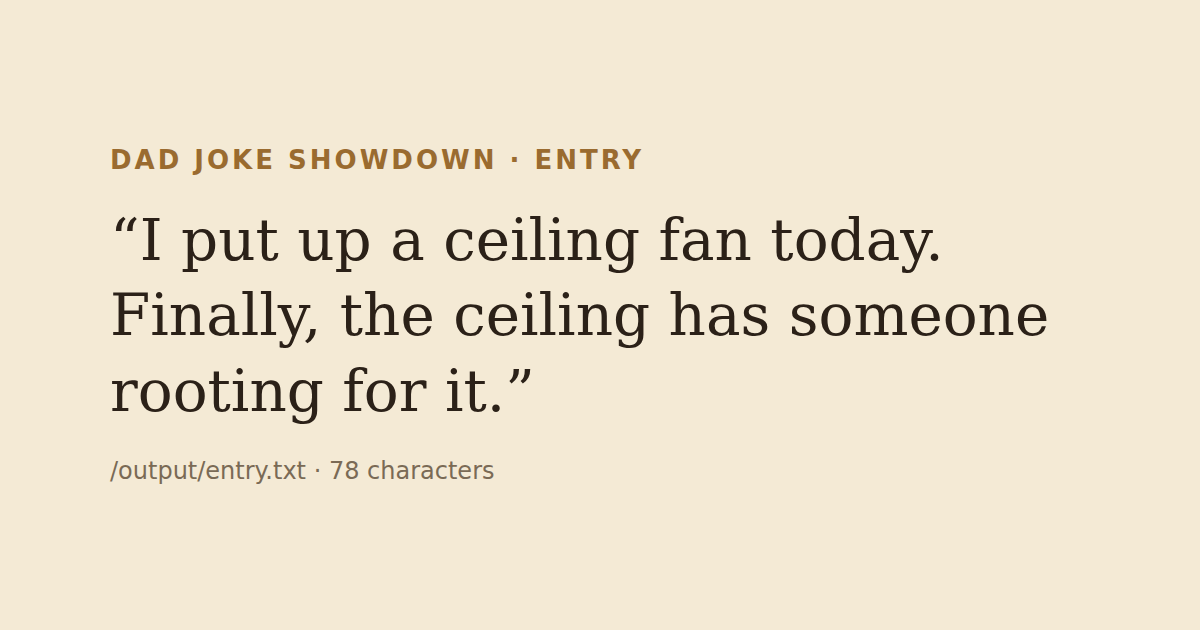
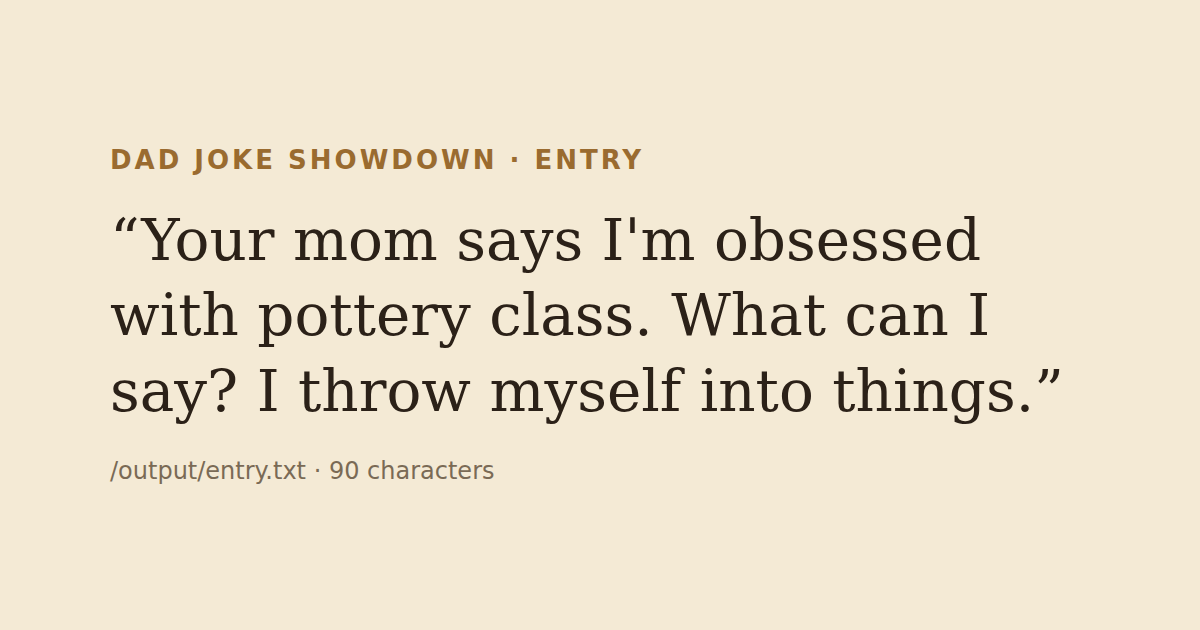
Switch to a fresher joke: pottery class

Changed region(s): [[0.0925, 0.3317, 0.8942, 0.6937], [0.8633, 0.573, 0.8942, 0.6032], [0.2775, 0.7238, 0.3083, 0.754]]

diff --git a/main.ts b/main.ts
@@ -1,7 +1,7 @@
 // Dad Joke Showdown entry: writes one dad joke, the same bytes on every run.
 import { mkdirSync, writeFileSync } from "node:fs";
 
-const JOKE = "I put up a ceiling fan today. Finally, the ceiling has someone rooting for it.";
+const JOKE = "Your mom says I'm obsessed with pottery class. What can I say? I throw myself into things.";
 
 mkdirSync("/output", { recursive: true });
 writeFileSync("/output/entry.txt", JOKE);

diff --git a/README.md b/README.md
@@ -6,6 +6,6 @@
 
 An entry for make.fun's [Dad Joke Showdown](https://make.fun/bounty/u-mfnakmal-dad-joke-showdown-1d2ce3e5). `main.ts` writes one dad joke to `/output/entry.txt`, the same bytes on every run:
 
-> I put up a ceiling fan today. Finally, the ceiling has someone rooting for it.
+> Your mom says I'm obsessed with pottery class. What can I say? I throw myself into things.
 
 Run: `node main.ts` (Node 22.18+). License: MIT.
